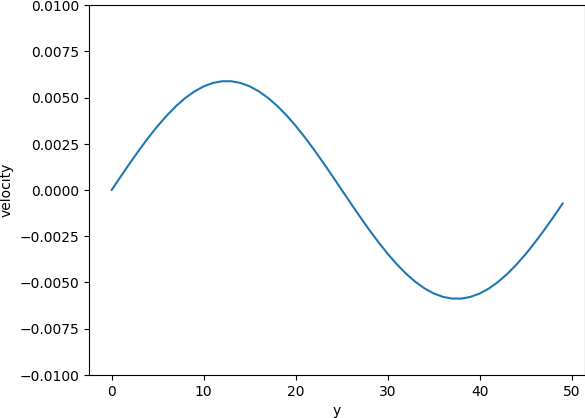
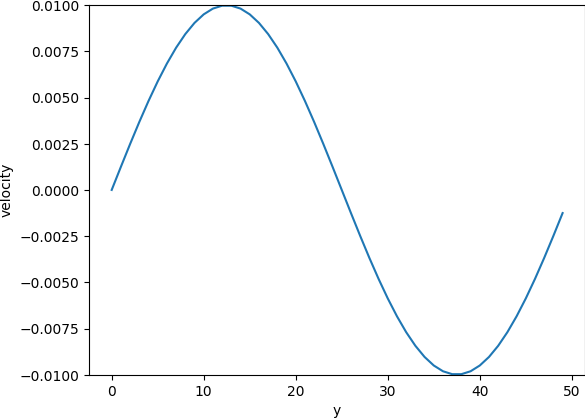
sdsd

diff --git a/shearWave.py b/shearWave.py
@@ -50,7 +50,7 @@ ws = np.arange(0.1, 2.01, 0.1)
 simulated_viscosities = []
 analytical_viscosities = []
 for w in ws:
-    simulated_viscosity, analytical_viscosity = shear_wave_sim(omega=w, experiment='density')
+    simulated_viscosity, analytical_viscosity = shear_wave_sim(omega=w, experiment='velocity')
     simulated_viscosities.append(simulated_viscosity)
     analytical_viscosities.append(analytical_viscosity)
         
